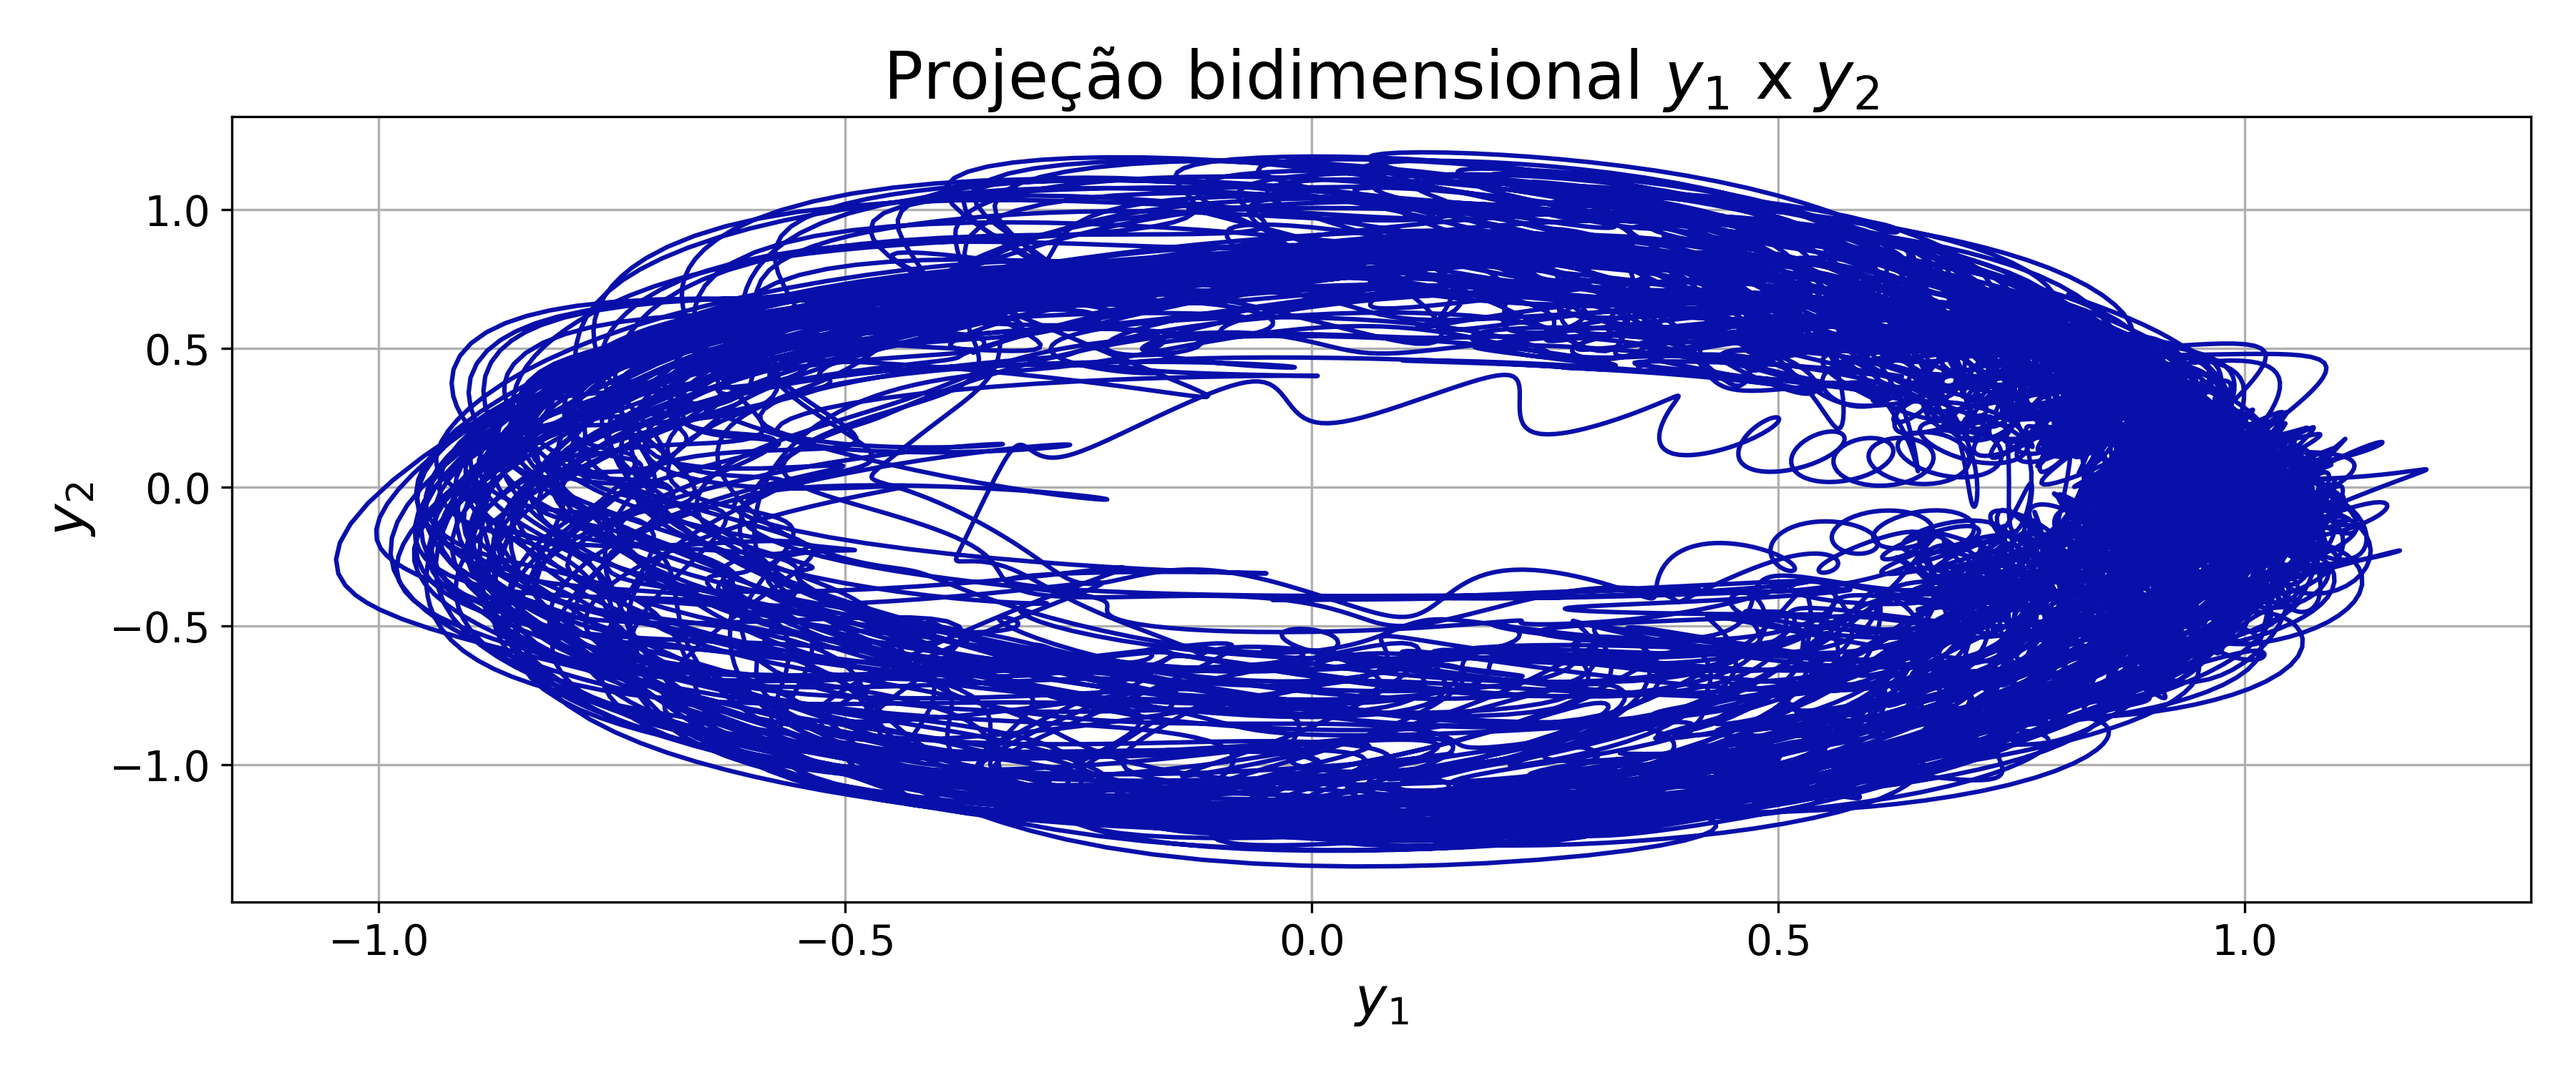
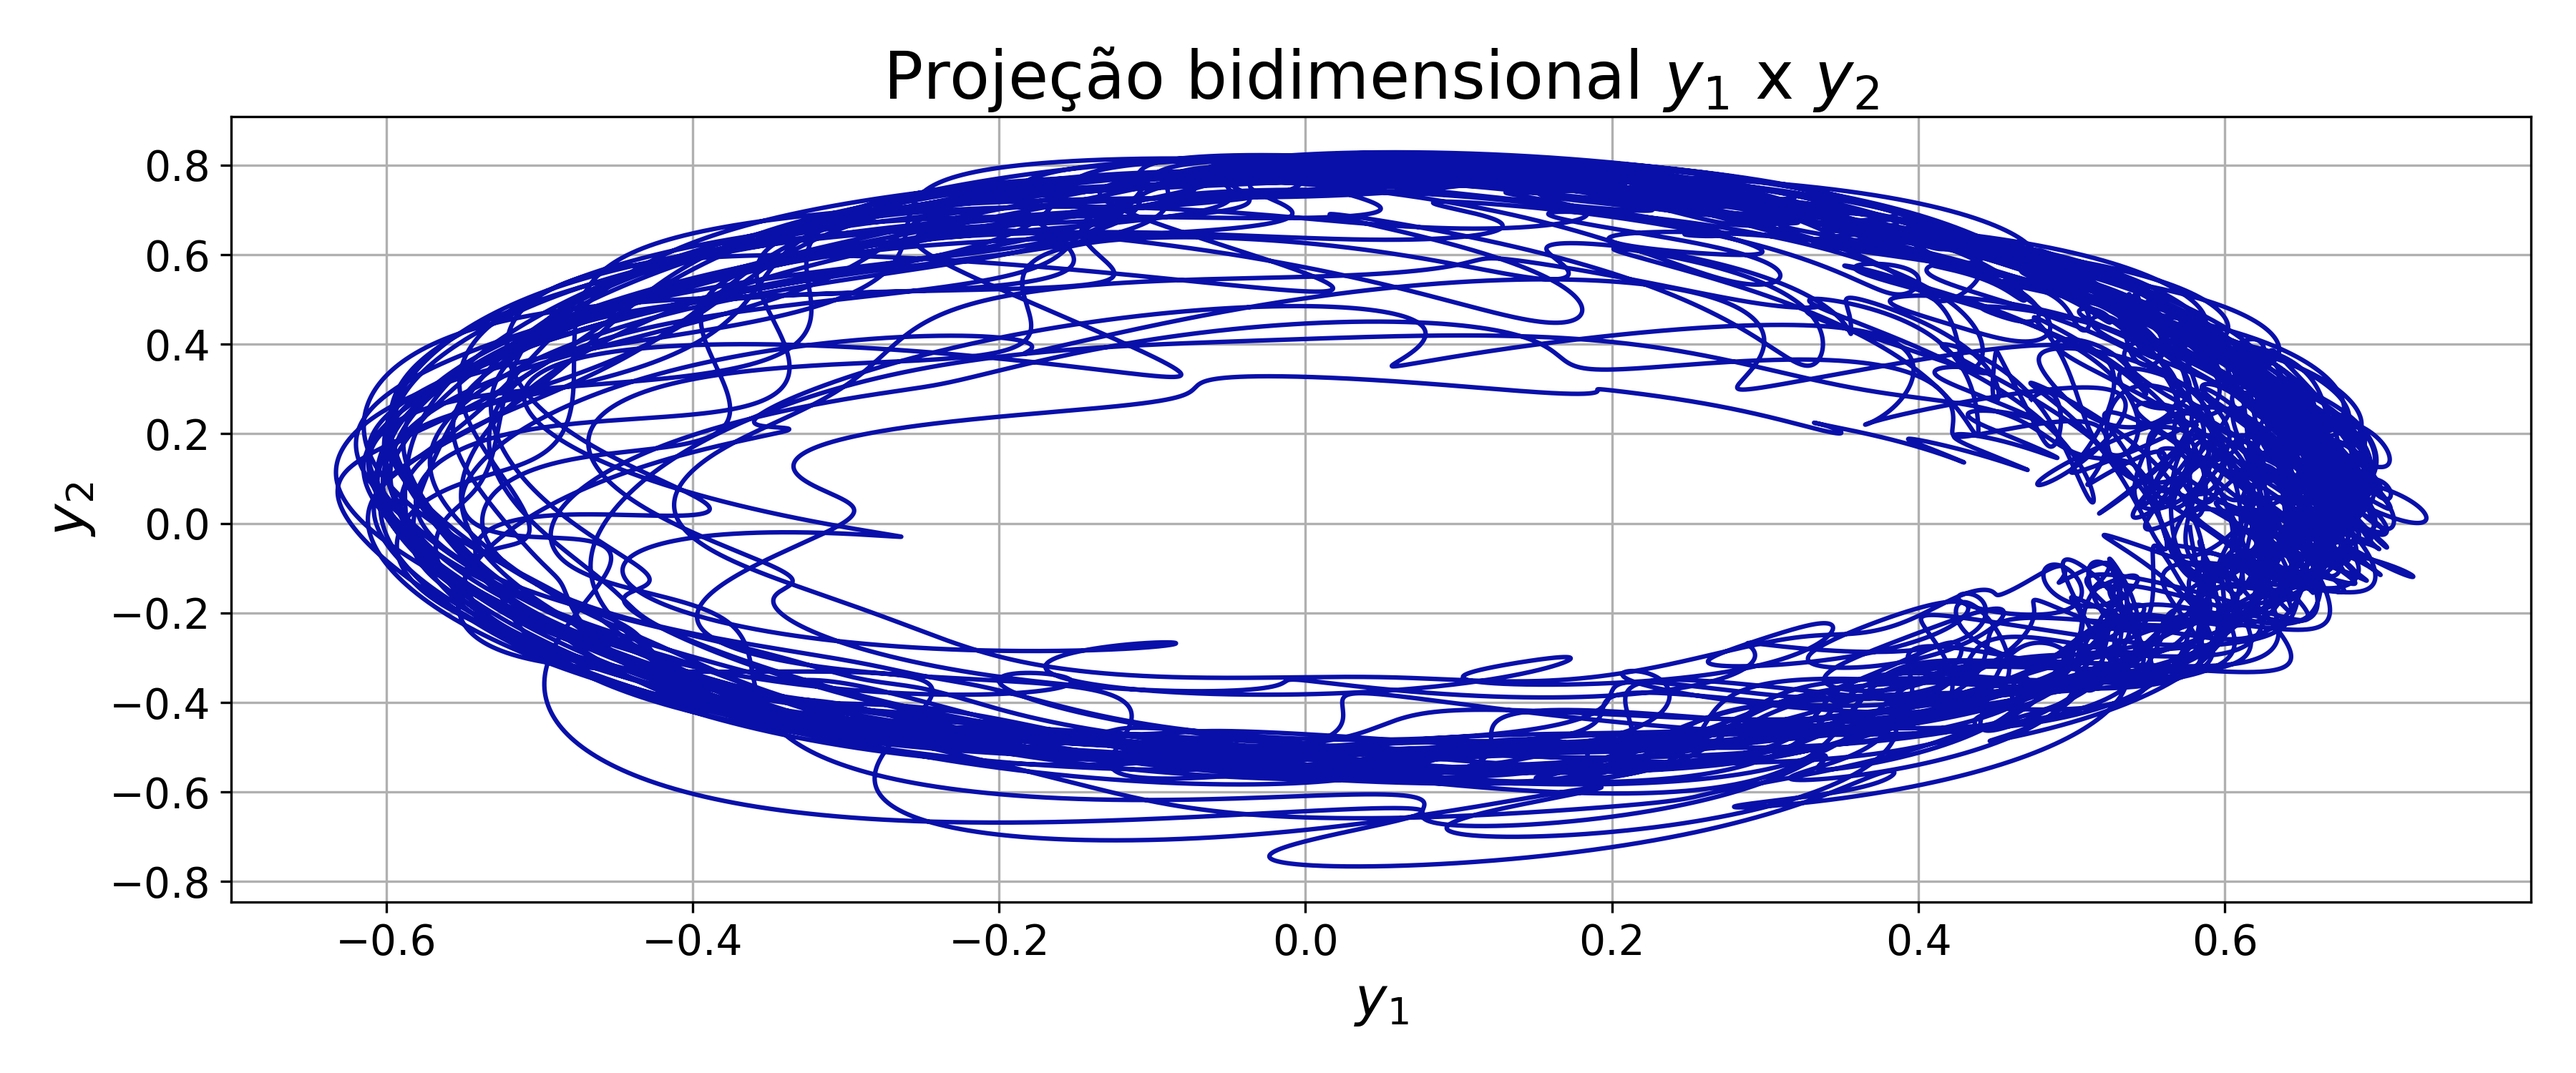
atualizações pendentes

diff --git a/06_LORENZ_80/escalonado.py b/06_LORENZ_80/escalonado.py
@@ -1,0 +1,135 @@
+import numpy as np
+from scipy.integrate import solve_ivp
+import pandas as pd
+from pathlib import Path
+from parameters import a, b, c, h, f, nu_0, kappa_0, g_0
+from initial_conditions import x0, y0, z0
+from plot import gerar_todos_graficos
+
+TIMESCALE_FACTOR = 8.0
+N_STEPS = int(5e5)
+DT = 0.004166666666667
+DATA_DIR = Path("data")
+DATA_DIR.mkdir(parents=True, exist_ok=True)
+
+def cyc(i):
+    return i, (i + 1) % 3, (i + 2) % 3
+
+def pe_model_scaled(t, u, eps, a, b, c, nu_0, kappa_0, g_0, f, h):
+    x = u[0:3]
+    y = u[3:6]
+    z = u[6:9]
+
+    dx = np.zeros(3)
+    dy = np.zeros(3)
+    dz = np.zeros(3)
+
+    for i in range(3):
+        i_, j, k = cyc(i)
+
+        rhs_x = (
+            eps**3 * a[i] * b[i] * x[j] * x[k]
+            - eps**2 * c * (a[i] - a[k]) * x[j] * y[k]
+            + eps**2 * c * (a[i] - a[j]) * y[j] * x[k]
+            - 2.0 * eps * c**2 * y[j] * y[k]
+            - eps**2 * nu_0 * a[i]**2 * x[i]
+            + a[i] * (y[i] - z[i])
+        )
+        dx[i] = rhs_x / (eps**2 * a[i])
+
+        rhs_y = (
+            - eps * a[k] * b[k] * x[j] * y[k]
+            - eps * a[j] * b[j] * y[j] * x[k]
+            + c * (a[k] - a[j]) * y[j] * y[k]
+            - a[i] * x[i]
+            - nu_0 * a[i]**2 * y[i]
+        )
+        dy[i] = rhs_y / a[i]
+
+        rhs_z = (
+            - eps * b[k] * x[j] * (z[k] - h[k])
+            - eps * b[j] * (z[j] - h[j]) * x[k]
+            + c * y[j] * (z[k] - h[k])
+            - c * (z[j] - h[j]) * y[k]
+            + g_0 * a[i] * x[i]
+            - kappa_0 * a[i] * z[i]
+            + f[i]
+        )
+        dz[i] = rhs_z
+
+    return np.concatenate([dx, dy, dz])
+
+def pe_simulate(x0, y0, z0, n_steps, dt, eps, a, b, c, nu_0, kappa_0, g_0, f, h):
+    # ESCALONAMENTO DAS VARIÁVEIS INICIAIS
+    x0_scaled = np.array(x0) / eps**2
+    y0_scaled = np.array(y0) / eps
+    z0_scaled = np.array(z0) / eps
+
+    # ESCALONAMENTO DOS PARÂMETROS
+    nu_0_scaled = nu_0 / eps
+    kappa_0_scaled = kappa_0 / eps
+    f_scaled = np.array(f) / eps**2
+    h_scaled = np.array(h) / eps
+
+    initial_u = np.concatenate([x0_scaled, y0_scaled, z0_scaled])
+    t_final = n_steps * dt
+    t_eval = np.linspace(0.0, t_final, n_steps + 1)
+    t_span = (0.0, t_final)
+
+    sol = solve_ivp(
+        pe_model_scaled,
+        t_span,
+        initial_u,
+        t_eval=t_eval,
+        method="RK45",
+        atol=1e-8,
+        rtol=1e-6,
+        args=(eps, a, b, c, nu_0_scaled, kappa_0_scaled, g_0, f_scaled, h_scaled)
+    )
+
+    print(f"Integração concluída. Pontos gerados: {len(sol.t)}")
+    t_out = sol.t / TIMESCALE_FACTOR
+    x, y, z = sol.y[0:3].T, sol.y[3:6].T, sol.y[6:9].T
+
+    df = pd.DataFrame({
+        "time": t_out,
+        "x1": x[:, 0], "x2": x[:, 1], "x3": x[:, 2],
+        "y1": y[:, 0], "y2": y[:, 1], "y3": y[:, 2],
+        "z1": z[:, 0], "z2": z[:, 1], "z3": z[:, 2],
+    })
+
+    return df
+
+if __name__ == "__main__":
+    eps = 1.5522
+    t_total = N_STEPS * DT
+    dias_equivalentes = t_total / TIMESCALE_FACTOR
+
+    df_pe = pe_simulate(
+        x0, y0, z0,
+        N_STEPS, DT,
+        eps, a, b, c,
+        nu_0, kappa_0, g_0, f, h
+    )
+
+    output_file = DATA_DIR / "pe_model_passos.csv"
+    df_pe.to_csv(output_file, index=False)
+
+    print(f"\nResultados salvos em: {output_file}")
+
+    limpeza_de_dados = input("\nDeseja eliminar 25% dos dados? (s/n): ").strip().lower()
+    if limpeza_de_dados == 's':
+        print("Limpando dados...")
+        df = pd.read_csv(output_file)
+        n_remove = int(len(df) * 0.25)
+        df_filtrado = df.iloc[n_remove:].copy()
+        df_filtrado.to_csv(output_file, index=False)
+        df_pe = df_filtrado
+        print(f"Limpeza concluída. Foram removidos ({n_remove/len(df)*100:.1f}% dos dados).")
+    elif limpeza_de_dados == 'n':
+        print("Dados mantidos sem alteração.")
+
+    print("\nGerando gráficos...")
+    model_type = 1
+    graficos = gerar_todos_graficos(df_pe, model_type)
+    print("\nSimulação concluída!")
